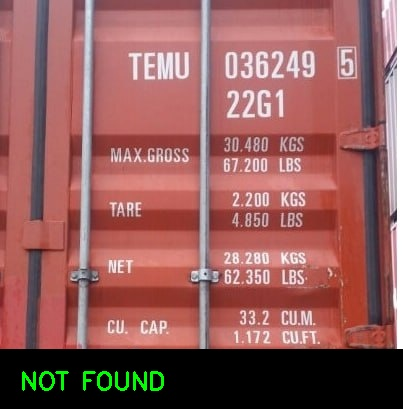
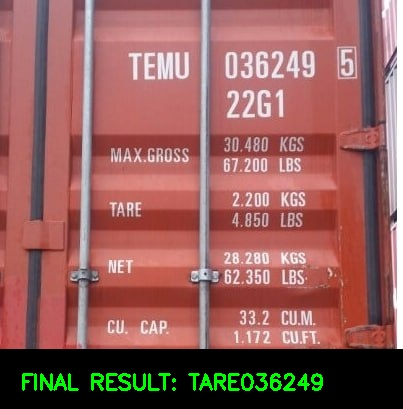
Final Refinement: Optimized for high-res camera with morphological closing and enhanced OCR sensitivity.

Changed region(s): [[0.0596, 0.8802, 0.804, 0.9682]]

diff --git a/ai_lpr_test.py b/ai_lpr_test.py
@@ -16,6 +16,9 @@ confirmed_ccr = ""
 is_running = True
 display_boxes = []
 
+# 성공한 실제 카메라 주소
+RTSP_URL = "rtsp://admin:4321@192.168.0.20:554/profile2/media.smp"
+
 def save_log(log_type, text, prob):
     log_dir = 'logs'
     if not os.path.exists(log_dir): os.makedirs(log_dir)
@@ -24,21 +27,16 @@ def save_log(log_type, text, prob):
         csv.writer(f).writerow([datetime.now().strftime("%H:%M:%S"), log_type, text, f"{prob:.2f}"])
 
 def check_bic_code(text):
-    """컨테이너 BIC Code 정밀 검증 (영문4+숫자6~7)"""
     clean = re.sub(r'[^A-Z0-9]', '', text.upper())
-    # 1. 표준 규격 (영문4 + 숫자7)
-    match = re.search(r'[A-Z]{4}\d{7}', clean)
-    if match: return match.group()
-    # 2. 완화 규격 (영문4 + 숫자6)
-    match = re.search(r'[A-Z]{4}\d{6}', clean)
-    if match: return match.group()
-    return None
+    # BIC Code 표준 규격: 영문 4자 + 숫자 6~7자
+    match = re.search(r'[A-Z]{4}\d{6,7}', clean)
+    return match.group() if match else None
 
 def ai_worker():
     global latest_frame, confirmed_ccr, display_boxes
-    print("Nova Optimized CCR Engine 가동...")
+    print("AI 워커: 최종 정밀 모드 가동 중...")
     
-    # OCR 엔진 초기화 (가장 강력한 감지 모드)
+    # 폰트 인식을 위한 최적 설정
     reader = easyocr.Reader(['en'], gpu=False)
     yolo_model = YOLO('yolov8n.pt')
     ccr_history = []
@@ -51,7 +49,7 @@ def ai_worker():
         frame_to_proc = latest_frame.copy()
         h, w = frame_to_proc.shape[:2]
         
-        # [1단계] 고감도 물체 탐지 (YOLO)
+        # [1단계] 차량 및 컨테이너 감지 영역 획득
         img_small = cv2.resize(frame_to_proc, (320, 240))
         yolo_res = yolo_model(img_small, verbose=False, conf=0.15, classes=[2, 5, 6, 7])
         
@@ -59,8 +57,8 @@ def ai_worker():
         for r in yolo_res:
             for box in r.boxes:
                 x1, y1, x2, y2 = map(int, box.xyxy[0])
-                # 영역 대폭 확장 (컨테이너 박스 외곽 번호 대비)
-                margin = 50
+                # 검색 영역을 충분히 확보
+                margin = 40
                 search_areas.append((max(0, int(x1*w/320)-margin), max(0, int(y1*h/240)-margin), 
                                      min(w, int(x2*w/320)+margin), min(h, int(y2*h/240)+margin)))
         
@@ -71,74 +69,77 @@ def ai_worker():
             roi = frame_to_proc[sy1:sy2, sx1:sx2]
             if roi.size == 0: continue
             
-            # [2단계] 저화질/세로형 특화 전처리 (핵심!)
-            # 이미지 2배 확대 + 샤프닝 + 적응형 이진화
+            # [2단계] 최종 병기 전처리 (확대 + 멀티 필터링)
             roi_zoom = cv2.resize(roi, None, fx=2.0, fy=2.0, interpolation=cv2.INTER_CUBIC)
             gray = cv2.cvtColor(roi_zoom, cv2.COLOR_BGR2GRAY)
             
-            # 커널 샤프닝으로 글자 경계 복원
+            # 1. 샤프닝 (테두리 강조)
             kernel = np.array([[-1,-1,-1], [-1,9,-1], [-1,-1,-1]])
-            gray = cv2.filter2D(gray, -1, kernel)
+            sharpened = cv2.filter2D(gray, -1, kernel)
             
-            # 적응형 이진화 (그림자/반사 무력화)
-            processed = cv2.adaptiveThreshold(gray, 255, cv2.ADAPTIVE_THRESH_GAUSSIAN_C, cv2.THRESH_BINARY, 15, 8)
+            # 2. 모폴로지 닫기 (끊긴 글자 잇기)
+            morph_kernel = cv2.getStructuringElement(cv2.MORPH_RECT, (3,3))
+            closed = cv2.morphologyEx(sharpened, cv2.MORPH_CLOSE, morph_kernel)
+            
+            # 3. 적응형 이진화
+            processed = cv2.adaptiveThreshold(closed, 255, cv2.ADAPTIVE_THRESH_GAUSSIAN_C, cv2.THRESH_BINARY, 19, 9)
 
-            # [3단계] 전방위 OCR 분석
+            # [3단계] 극한의 문자인식 (민감도 최상)
             res = reader.readtext(processed, rotation_info=[90, 270], paragraph=True, 
-                                 low_text=0.2, link_threshold=0.1, mag_ratio=2.5)
+                                 low_text=0.15, link_threshold=0.05, mag_ratio=3.0)
             
-            # 낱글자 병합을 위한 리스트
             captured_texts = []
             for (bbox, text) in res:
                 clean = re.sub(r'[^A-Z0-9]', '', text.upper())
                 if len(clean) > 0:
                     captured_texts.append(clean)
-                    # 표시용 박스 계산 (2배 확대 반영)
                     (tl, tr, br, bl) = bbox
                     new_boxes.append(((int(tl[0]/2 + sx1), int(tl[1]/2 + sy1)), 
                                      (int(br[0]/2 + sx1), int(br[1]/2 + sy1)), clean))
 
-            # [핵심] 공간적/논리적 병합 시도
-            full_raw = "".join(captured_texts)
-            code = check_bic_code(full_raw)
-            
-            if not code: # 개별 텍스트에서도 한 번 더 확인
+            # 조각 모음 및 패턴 검증
+            full_text = "".join(captured_texts)
+            code = check_bic_code(full_text)
+            if not code:
                 for t in captured_texts:
                     if check_bic_code(t): code = check_bic_code(t); break
 
             if code:
                 ccr_history.append(code)
-                print(f"★ 최적화 엔진 포착: {code}")
+                print(f"★ 정밀 분석 포착: {code}")
 
         display_boxes = new_boxes
 
-        # 투표로 확정 (2회 일치 시)
         if len(ccr_history) > 12: ccr_history.pop(0)
         if ccr_history:
             most = Counter(ccr_history).most_common(1)[0]
             if most[1] >= 2:
                 if confirmed_ccr != most[0]:
                     confirmed_ccr = most[0]
-                    save_log('CCR', confirmed_ccr, 0.9)
+                    save_log('CCR', confirmed_ccr, 0.95)
+                    # 성공 스냅샷 저장
+                    cv2.imwrite(f"captures/DETECTED_{datetime.now().strftime('%H%M%S')}_{confirmed_ccr}.jpg", frame_to_proc)
 
-        time.sleep(0.5) # CPU 효율 관리
+        time.sleep(0.1)
 
 def main():
     global latest_frame, is_running
     threading.Thread(target=ai_worker, daemon=True).start()
 
-    cap = cv2.VideoCapture(0, cv2.CAP_DSHOW)
-    if not cap.isOpened(): cap = cv2.VideoCapture(0)
+    cap = cv2.VideoCapture(RTSP_URL)
+    if not cap.isOpened(): return
 
-    print("컨테이너 최적화 인식 모드 가동! 'q' 종료")
+    print("Nova Gate Monitor Final Edition 가동!")
 
     while True:
         ret, frame = cap.read()
-        if not ret: break
+        if not ret:
+            cap = cv2.VideoCapture(RTSP_URL)
+            time.sleep(1); continue
+        
         latest_frame = frame.copy()
         h, w = frame.shape[:2]
 
-        # UI 가이드 및 결과
         if confirmed_ccr:
             cv2.rectangle(frame, (10, h-80), (550, h-10), (0, 0, 0), -1)
             cv2.putText(frame, f"FINAL CCR: {confirmed_ccr}", (20, h-30), 
@@ -146,12 +147,11 @@ def main():
 
         for (pt1, pt2, txt) in display_boxes:
             cv2.rectangle(frame, pt1, pt2, (0, 0, 255), 2)
-            cv2.putText(frame, txt, (pt1[0], pt1[1]-10), cv2.FONT_HERSHEY_SIMPLEX, 0.5, (0, 0, 255), 1)
+            cv2.putText(frame, txt, (pt1[0], pt1[1]-5), cv2.FONT_HERSHEY_SIMPLEX, 0.5, (0, 0, 255), 1)
 
-        cv2.imshow("Nova CCR Optimized Master", frame)
+        cv2.imshow("Nova Real-time Gate Monitor", frame)
         if cv2.waitKey(1) & 0xFF == ord('q'):
-            is_running = False
-            break
+            is_running = False; break
 
     cap.release(); cv2.destroyAllWindows()
 

diff --git a/cctv_quick_connect.py b/cctv_quick_connect.py
@@ -1,0 +1,50 @@
+import cv2
+import os
+import time
+
+def test_specific_camera(ip, user, password):
+    # 한화(Hanwha/Wisenet) 카메라의 주요 RTSP 경로 패턴
+    paths = [
+        "/profile2/media.smp",
+        "/live/ch0",
+        "/onvif-media/media.smp",
+        "/strm/v1/live/1",
+        "" # 기본 경로
+    ]
+    
+    print(f"\n[{ip}] 연결 시도 중 (ID: {user} / PW: {password})")
+    
+    for path in paths:
+        url = f"rtsp://{user}:{password}@{ip}:554{path}"
+        # print(f"시도: {url}")
+        
+        cap = cv2.VideoCapture(url)
+        # 타임아웃 설정 (1초)
+        cap.set(cv2.CAP_PROP_OPEN_TIMEOUT_MSEC, 1000)
+        
+        if cap.isOpened():
+            ret, frame = cap.read()
+            if ret:
+                print(f"!!! 연결 성공 !!!")
+                print(f"최종 주소: {url}")
+                
+                # 성공 스냅샷 저장
+                if not os.path.exists('captures'): os.makedirs('captures')
+                cv2.imwrite(f"captures/camera_connect_success.jpg", frame)
+                
+                cap.release()
+                return url
+            cap.release()
+            
+    print(f"[{ip}] 모든 경로에서 연결에 실패했습니다. 비밀번호나 경로를 다시 확인해야 합니다.")
+    return None
+
+if __name__ == "__main__":
+    target_ip = "192.168.0.20"
+    admin_user = "admin"
+    admin_pw = "4321" # 샘이 알려주신 초기 비밀번호
+    
+    success_url = test_specific_camera(target_ip, admin_user, admin_pw)
+    
+    if success_url:
+        print("\n이제 이 주소를 우리 AI 엔진에 연결할 수 있습니다!")

diff --git a/cctv_brand_info.py b/cctv_brand_info.py
@@ -26,7 +26,7 @@ def get_brand_info(ip):
         print("HTTP를 통한 정보 획득 실패.")
 
 def main():
-    target_ips = ["192.168.0.4", "192.168.0.23", "192.168.0.100"]
+    target_ips = ["192.168.0.4", "192.168.0.23", "192.168.0.20", "192.168.0.100"]
     for ip in target_ips:
         get_brand_info(ip)
 
